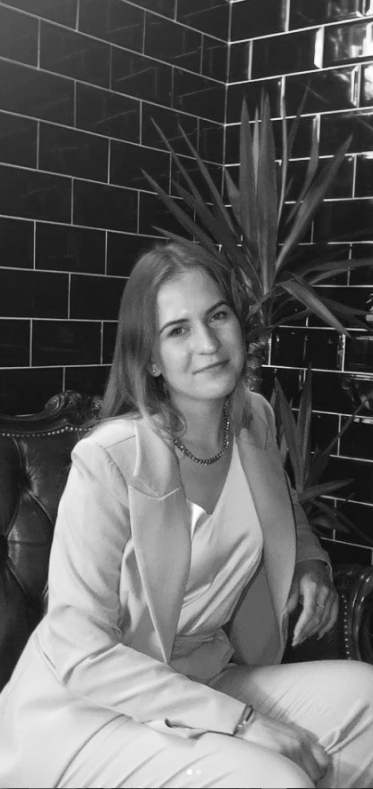
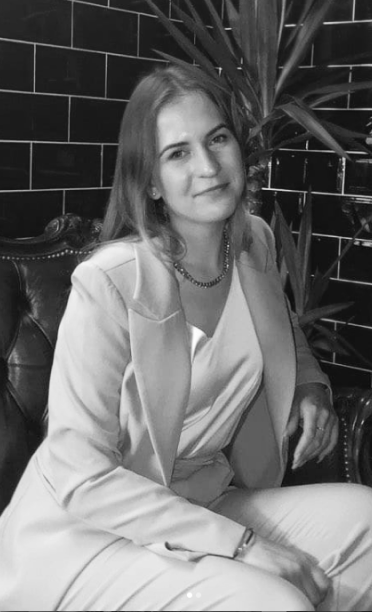
About component

diff --git a/src/views/About.vue b/src/views/About.vue
@@ -1,32 +1,35 @@
 <template>
-  <div class="designer-info">
+  <div class="about mb-lg-9">
     <img
       src="../assets/designer-photo.png"
       alt="Designer's photo"
-      class="designer-photo"
+      class="about__photo"
     />
-    <div class="designer-description">
-      <h1 class="desc-head">Обо Мне</h1>
-      <div class="desc-text">
-        <p>Создаю красивые и функциональные дизайны жилых интерьеров.</p>
+    <div class="about__description">
+      <h1 class="h-lg-1 mb-lg-7">Обо Мне</h1>
+      <div class="desc-text text-2">
+        <p class="mb-lg-4">
+          Создаю красивые и функциональные дизайны жилых интерьеров.
+        </p>
 
-        <p>
+        <p class="mb-lg-4">
           Главная задача при работе над проектами - обустроить пространство так,
           чтобы заказчик максимально комфортно чувствовал себя дома и
           вдохновлялся на новые свершения.
         </p>
 
         <span>Образование:</span>
-        <ul>
+        <ul class="ml-lg-5 mb-lg-7">
           <li>Курсы дизайна интерьера в Современной школе дизайна 2021г.</li>
           <li>Курсы 3д визуализации 3d club</li>
         </ul>
-
-        <div class="quote">
+      </div>
+      <div class="about__quote text-lg-2">
+        <div class="quote mb-lg-7">
           «В хорошем дизайне функциональность всегда первична, независимо от
           форм. Но она не должна угнетать эмоции».
         </div>
-        <p class="author">Giorgio Saporiti</p>
+        <b class="author">Giorgio Saporiti</b>
       </div>
     </div>
   </div>
@@ -36,56 +39,30 @@
 export default {};
 </script>
 
-<style scoped>
-.designer-info {
-  margin: 80px 150px 160px;
+<style lang="scss">
+.about {
   display: flex;
   justify-content: space-between;
+  align-items: center;
 
-  font-family: Lato;
-}
+  &__photo {
+    width: 373px;
 
-.designer-photo {
-  width: 35%;
-}
+    border-radius: 32px;
+  }
 
-.designer-description {
-  display: flex;
-  flex-direction: column;
+  &__description {
+    display: flex;
+    flex-direction: column;
 
-  width: 55%;
-  font-size: 24px;
-}
+    width: 55%;
+    font-size: 24px;
+  }
 
-.desc-head {
-  margin: 0;
-
-  align-self: center;
-
-  font-family: Bodoni;
-  font-style: normal;
-  font-weight: 300;
-  font-size: 72px;
-  line-height: 98px;
-}
-
-.desc-text {
-  display: flex;
-  flex-direction: column;
-  font-style: normal;
-  font-weight: 300;
-  font-size: 24px;
-  line-height: 33px;
-}
-
-.quote {
-  width: 400px;
-  align-self: flex-end;
-  text-align: right;
-}
-
-.author {
-  align-self: flex-end;
-  font-weight: bold;
+  &__quote {
+    width: 400px;
+    align-self: flex-end;
+    text-align: right;
+  }
 }
 </style>

diff --git a/src/views/Home.vue b/src/views/Home.vue
@@ -10,18 +10,13 @@
 </template>
 
 <script>
-import userConfig from "../../user.config.js"; //TODO: Change on ENV
+// import userConfig from "../../user.config.js"; TODO: Change on ENV
 
-import Introduction from "../components/Introduction.vue";
-import Designer from "../components/Designer.vue";
-import Portfolio from "../components/Portfolio.vue";
+import Introduction from "@/components/Introduction.vue";
+import Designer from "@/components/Designer.vue";
+import Portfolio from "@/components/Portfolio.vue";
 
 export default {
-  data() {
-    return {
-      user: userConfig,
-    };
-  },
 
   components: {
     Introduction,

diff --git a/src/styles/_typography.scss b/src/styles/_typography.scss
@@ -58,6 +58,7 @@ src: url(~@/assets/fonts/HamiltoneG.ttf);
             font-weight: 400;
             font-size: 96px;
             line-height: 104px;
+            text-align: center;
         }
 
         &-2 {

diff --git a/src/App.vue b/src/App.vue
@@ -2,7 +2,7 @@
   <div>
     <Header />
     <SocLinks :isSided="true" />
-    <div class="container">
+    <div class="container pt-lg-7">
       <router-view />
     </div>
     <Footer />

diff --git a/src/components/Portfolio.vue b/src/components/Portfolio.vue
@@ -18,10 +18,5 @@ export default {
 };
 </script>
 
-<style lang="scss" scoped>
-.portfolio {
-  &__title {
-    text-align: center;
-  }
-}
+<style lang="scss">
 </style>

diff --git a/src/components/Header.vue b/src/components/Header.vue
@@ -45,7 +45,7 @@ export default {
 
 <style lang="scss" scoped>
 .header {
-  height: 55px;
+  height: 64px;
   width: 100%;
 
   display: flex;
